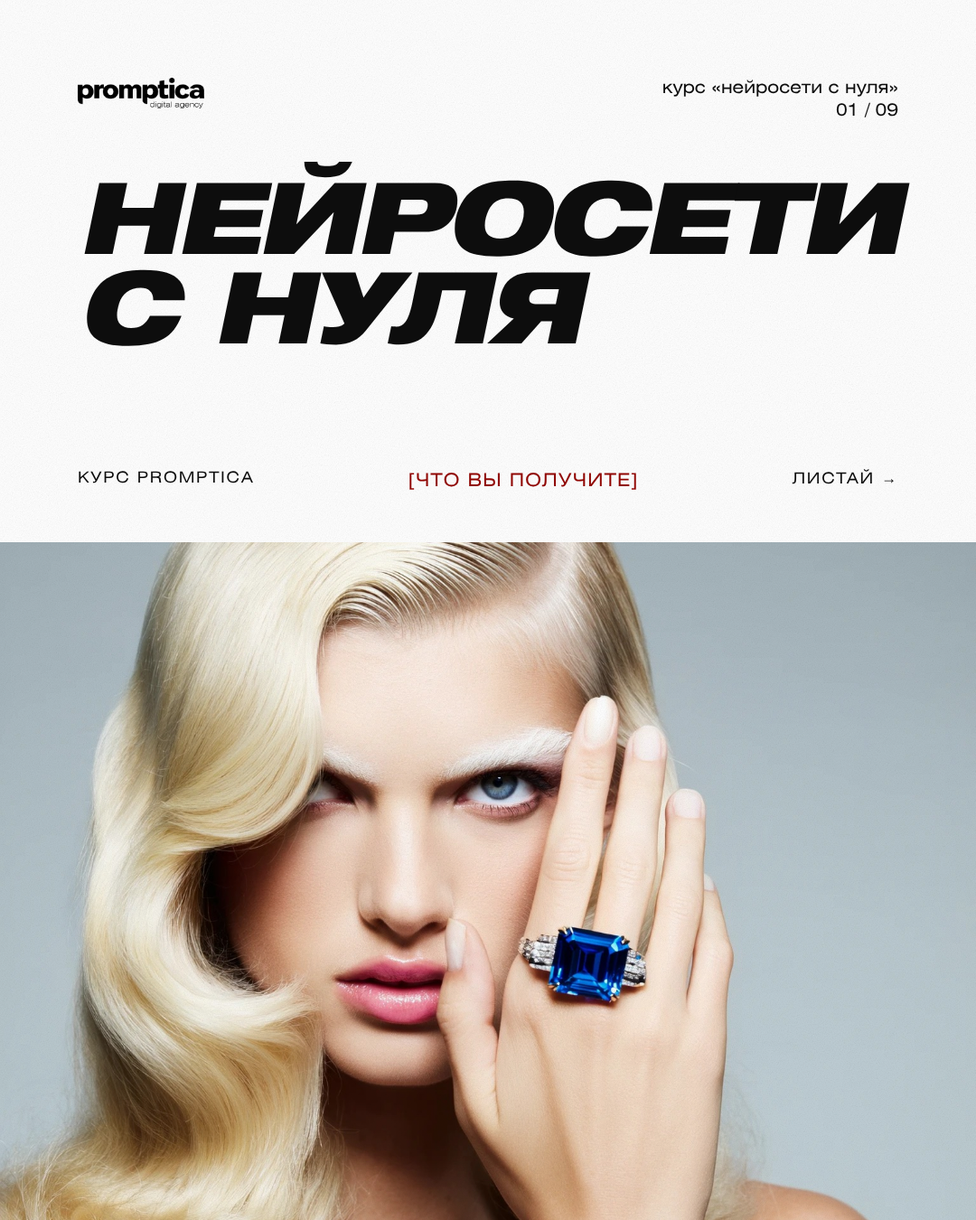
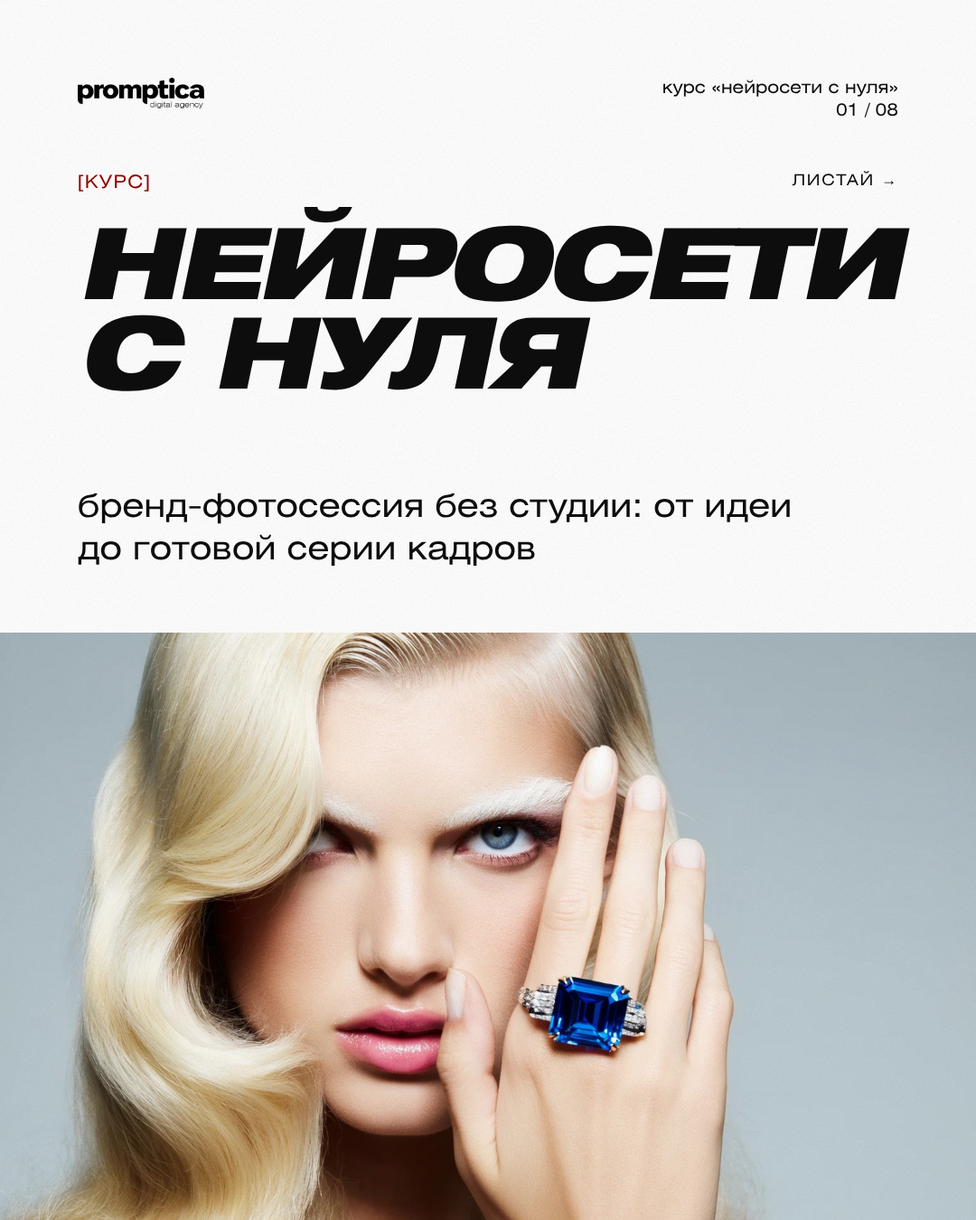
Карусель «Нейросети с нуля»: макет по присланным текстам (8 слайдов), сборка из build.py
Claude-Session: https://claude.ai/code/session_01V1NUh11xrVMcB1cs4GV2qz

diff --git a/carousels/promptica-course/05.html b/carousels/promptica-course/05.html
@@ -7,18 +7,11 @@
 </head>
 <body>
   <div class="slide ">
-    <div class="abs" style="left:86px;top:200px;width:908px"><div class="fit" data-fit="650" style="line-height:.9">2 месяца</div></div>
-    <div class="abs mrow" style="left:86px;top:340px;width:908px"><span class="br">[срок курса]</span><span>обратная связь на каждом этапе</span></div>
-    <div class="abs lbl br" style="left:86px;top:470px">[что входит]</div>
-    <div class="abs" style="left:86px;top:510px;width:908px">
-      <div class="row"><i class="cb" style="display:inline-block;margin-right:22px;vertical-align:middle"></i><span class="t">Разбор работ на курсе</span></div>
-      <div class="row"><i class="cb" style="display:inline-block;margin-right:22px;vertical-align:middle"></i><span class="t">Обратная связь от кураторов</span></div>
-      <div class="row"><i class="cb" style="display:inline-block;margin-right:22px;vertical-align:middle"></i><span class="t">Сборка портфолио</span></div>
-      <div class="row"><i class="cb" style="display:inline-block;margin-right:22px;vertical-align:middle"></i><span class="t">Финальный проект</span></div>
-      <div class="row ghost"><i class="cb" style="display:inline-block;margin-right:22px;vertical-align:middle"></i><span class="t">[ещё пункт]</span></div>
-    </div>
+    <div class="abs" style="left:86px;top:200px;width:908px"><div class="fit" data-fit="908" style="line-height:.9">5 модулей</div></div>
+    <div class="abs mrow" style="left:86px;top:340px;width:908px"><span class="br">[программа]</span><span>видеоуроки + домашние задания</span></div>
+    <div class="abs" style="left:86px;top:430px;width:908px"><div class="row" style="padding:26px 0"><span class="n">[01]</span><span class="t" style="font-size:32px"><b style="font-weight:400">Инструменты и основы</b></span></div><div class="row" style="padding:26px 0"><span class="n">[02]</span><span class="t" style="font-size:32px"><b style="font-weight:400">Идея и первые кадры</b><small style='font-size:22px;margin-top:8px'>поиск своего стиля: от референса до готовой фотосессии</small></span></div><div class="row" style="padding:26px 0"><span class="n">[03]</span><span class="t" style="font-size:32px"><b style="font-weight:400">Исправляем недочёты</b><small style='font-size:22px;margin-top:8px'>Убираем артефакты, «пластиковую» кожу и другое. Кадр выглядит как настоящая фотография.</small></span></div><div class="row" style="padding:26px 0"><span class="n">[04]</span><span class="t" style="font-size:32px"><b style="font-weight:400">Вся фотосессия целиком</b><small style='font-size:22px;margin-top:8px'>Планируем съёмку по кадрам, меняем локации и образы, отбираем лучшее и собираем серию.</small></span></div><div class="row" style="padding:26px 0"><span class="n">[05]</span><span class="t" style="font-size:32px;color:#930400"><b style="font-weight:400">Как монетизировать навык и получать заказы</b><small style='font-size:22px;margin-top:8px'>Упаковываем навык в услугу</small></span></div></div>
     <div class="hd"><img src="../../assets/logo_black.png" alt="promptica"></div>
-    <div class="mt">курс «нейросети с нуля»<br>05 / 09</div>
+    <div class="mt">курс «нейросети с нуля»<br>05 / 08</div>
     <svg class="grain"><filter id="g"><feTurbulence type="fractalNoise" baseFrequency=".9" numOctaves="3" seed="5" stitchTiles="stitch"/><feColorMatrix type="saturate" values="0"/></filter><rect width="100%" height="100%" filter="url(#g)"/></svg>
   </div>
 <script>

diff --git a/carousels/promptica-course/02.html b/carousels/promptica-course/02.html
@@ -8,14 +8,12 @@
 <body>
   <div class="slide ">
     <div class="abs" style="left:86px;top:200px;width:908px"><div class="fit" data-fit="908" style="line-height:.9">Видеоуроки</div></div>
-    <div class="abs mrow" style="left:86px;top:340px;width:908px"><span class="br">[формат]</span><span>по модулям</span><span>в своём темпе</span></div>
-    <div class="abs" style="left:86px;top:470px;width:908px">
-      <div class="row"><span class="n">[01]</span><span class="t">Видеоуроки, разбитые на модули<small>каждый модуль — отдельный блок со своей темой</small></span></div>
-      <div class="row"><span class="n">[02]</span><span class="t">Работайте в своём темпе<small>смотрите уроки тогда, когда удобно вам</small></span></div>
-      <div class="row"><span class="n">[03]</span><span class="t">Возвращайтесь к урокам<small>пересматривайте тему, если нужно закрепить</small></span></div>
-    </div>
+    <div class="abs mrow" style="left:86px;top:340px;width:908px"><span class="br">[формат]</span><span>короткие модули · своё расписание</span></div>
+    <div class="abs" style="left:86px;top:480px;width:840px;font-size:40px;line-height:1.38">Смотрите уроки в удобное время и идите в своём темпе. Каждый урок разбит на небольшие части, поэтому не нужно выделять на него целый день.</div>
+    <div class="abs lbl br" style="left:86px;top:900px">[один урок = несколько небольших частей]</div>
+    <div class="abs" style="left:86px;top:944px;width:908px;display:flex;gap:8px"><div style="flex:3;height:120px;background:#fff7e6;border:1px solid rgba(13,13,13,.15);padding:10px 12px"><span class="br" style="font-size:16px">[01]</span></div><div style="flex:2;height:120px;background:#fff7e6;border:1px solid rgba(13,13,13,.15);padding:10px 12px"><span class="br" style="font-size:16px">[02]</span></div><div style="flex:4;height:120px;background:#fff7e6;border:1px solid rgba(13,13,13,.15);padding:10px 12px"><span class="br" style="font-size:16px">[03]</span></div><div style="flex:2;height:120px;background:#fff7e6;border:1px solid rgba(13,13,13,.15);padding:10px 12px"><span class="br" style="font-size:16px">[04]</span></div><div style="flex:3;height:120px;background:#fff7e6;border:1px solid rgba(13,13,13,.15);padding:10px 12px"><span class="br" style="font-size:16px">[05]</span></div></div>
     <div class="hd"><img src="../../assets/logo_black.png" alt="promptica"></div>
-    <div class="mt">курс «нейросети с нуля»<br>02 / 09</div>
+    <div class="mt">курс «нейросети с нуля»<br>02 / 08</div>
     <svg class="grain"><filter id="g"><feTurbulence type="fractalNoise" baseFrequency=".9" numOctaves="3" seed="2" stitchTiles="stitch"/><feColorMatrix type="saturate" values="0"/></filter><rect width="100%" height="100%" filter="url(#g)"/></svg>
   </div>
 <script>

diff --git a/carousels/promptica-course/04.html b/carousels/promptica-course/04.html
@@ -7,16 +7,12 @@
 </head>
 <body>
   <div class="slide ">
-    <div class="ph" style="left:0px;top:170px;width:455px;height:1180px"><div class="hn">фото куратора</div><img src="img/04-a.jpg" alt="" style="object-position:50% 30%" onerror="this.remove()"></div>
-    <div class="abs lbl br" style="left:520px;top:260px">[куратор курса]</div>
-    <div class="abs name" style="left:520px;top:300px;font-size:100px">Алина</div>
-    <div class="abs" style="left:520px;top:470px;width:474px">
-      <div class="row" style="padding:18px 0;font-size:28px"><span class="t">креативный директор promptica</span></div>
-      <div class="row ghost" style="padding:18px 0;font-size:28px"><span class="t">[ещё достижение]</span></div>
-      <div class="row ghost" style="padding:18px 0;font-size:28px"><span class="t">[ещё достижение]</span></div>
-    </div>
+    <div class="abs" style="left:86px;top:200px;width:908px"><div class="fit" data-fit="650" style="line-height:.9">2 месяца</div></div>
+    <div class="abs mrow" style="left:86px;top:340px;width:908px"><span class="br">[срок курса]</span><span>с обратной связью</span></div>
+    <div class="abs lbl br" style="left:86px;top:470px">[что входит]</div>
+    <div class="abs" style="left:86px;top:510px;width:908px"><div class="row" style="padding:30px 0;font-size:34px"><i class="cb" style="display:inline-block;margin-right:22px;vertical-align:middle"></i><span class="t">разбор работ участников на курсе</span></div><div class="row" style="padding:30px 0;font-size:34px"><i class="cb" style="display:inline-block;margin-right:22px;vertical-align:middle"></i><span class="t">сборка портфолио</span></div><div class="row" style="padding:30px 0;font-size:34px"><i class="cb" style="display:inline-block;margin-right:22px;vertical-align:middle"></i><span class="t">проверка домашних заданий с комментариями</span></div><div class="row" style="padding:30px 0;font-size:34px"><i class="cb" style="display:inline-block;margin-right:22px;vertical-align:middle"></i><span class="t">ответы кураторов на вопросы по ходу курса</span></div><div class="row" style="padding:30px 0;font-size:34px"><i class="cb" style="display:inline-block;margin-right:22px;vertical-align:middle"></i><span class="t">закрытый чат участников</span></div></div>
     <div class="hd"><img src="../../assets/logo_black.png" alt="promptica"></div>
-    <div class="mt">курс «нейросети с нуля»<br>04 / 09</div>
+    <div class="mt">курс «нейросети с нуля»<br>04 / 08</div>
     <svg class="grain"><filter id="g"><feTurbulence type="fractalNoise" baseFrequency=".9" numOctaves="3" seed="4" stitchTiles="stitch"/><feColorMatrix type="saturate" values="0"/></filter><rect width="100%" height="100%" filter="url(#g)"/></svg>
   </div>
 <script>

diff --git a/carousels/promptica-course/03.html b/carousels/promptica-course/03.html
@@ -7,17 +7,17 @@
 </head>
 <body>
   <div class="slide ">
-    <div class="ph" style="left:0px;top:170px;width:538px;height:640px"><div class="hn">фото куратора 1</div><img src="img/03-a.jpg" alt="" style="object-position:50% 25%" onerror="this.remove()"></div>
-    <div class="ph" style="left:542px;top:170px;width:538px;height:640px"><div class="hn">фото куратора 2</div><img src="img/03-b.jpg" alt="" style="object-position:50% 25%" onerror="this.remove()"></div>
-    <div class="abs lbl br" style="left:86px;top:862px">[куратор курса]</div>
-    <div class="abs name" style="left:86px;top:902px;font-size:130px">Аня</div>
-    <div class="abs" style="left:520px;top:880px;width:474px">
-      <div class="row" style="padding:16px 0;font-size:26px"><span class="t">8 лет в дизайне</span></div>
-      <div class="row" style="padding:16px 0;font-size:26px"><span class="t">ведущий креатор</span></div>
-      <div class="row ghost" style="padding:16px 0;font-size:26px"><span class="t">[ещё достижение]</span></div>
-    </div>
+    <div class="abs name" style="left:86px;top:190px;font-size:52px;white-space:nowrap">Кто ведёт курс</div>
+    <div class="ph" style="left:0px;top:300px;width:538px;height:640px"><div class="hn">фото Алины</div><img src="img/03-a.jpg" alt="" style="object-position:50% 25%" onerror="this.remove()"></div>
+    <div class="ph" style="left:542px;top:300px;width:538px;height:640px"><div class="hn">фото Ани</div><img src="img/03-b.jpg" alt="" style="object-position:50% 25%" onerror="this.remove()"></div>
+    <div class="abs" style="left:86px;top:980px;width:420px"><div class="name" style="font-size:62px">Алина</div>
+      <div class="lbl br" style="margin-top:16px">[куратор курса]</div>
+      <div style="font-size:24px;line-height:1.4;margin-top:12px">креативный директор promptica<br>AI-креатор</div></div>
+    <div class="abs" style="left:582px;top:980px;width:420px"><div class="name" style="font-size:62px">Аня</div>
+      <div class="lbl br" style="margin-top:16px">[8 лет в дизайне]</div>
+      <div style="font-size:24px;line-height:1.4;margin-top:12px">брендинг и визуал для соцсетей<br>ведущий креатор</div></div>
     <div class="hd"><img src="../../assets/logo_black.png" alt="promptica"></div>
-    <div class="mt">курс «нейросети с нуля»<br>03 / 09</div>
+    <div class="mt">курс «нейросети с нуля»<br>03 / 08</div>
     <svg class="grain"><filter id="g"><feTurbulence type="fractalNoise" baseFrequency=".9" numOctaves="3" seed="3" stitchTiles="stitch"/><feColorMatrix type="saturate" values="0"/></filter><rect width="100%" height="100%" filter="url(#g)"/></svg>
   </div>
 <script>

diff --git a/carousels/promptica-course/06.html b/carousels/promptica-course/06.html
@@ -7,16 +7,11 @@
 </head>
 <body>
   <div class="slide ">
-    <div class="abs" style="left:86px;top:200px;width:908px"><div class="fit" data-fit="560" style="line-height:.9">Модули</div></div>
-    <div class="abs mrow" style="left:86px;top:340px;width:908px"><span class="br">[программа]</span><span>видеоуроки + домашние задания</span></div>
-    <div class="abs" style="left:86px;top:470px;width:908px">
-      <div class="row ghost"><span class="n">[01]</span><span class="t">[название модуля]<small>[чему учим]</small></span></div>
-      <div class="row ghost"><span class="n">[02]</span><span class="t">[название модуля]<small>[чему учим]</small></span></div>
-      <div class="row ghost"><span class="n">[03]</span><span class="t">[название модуля]<small>[чему учим]</small></span></div>
-      <div class="row" style="background:#fff7e6;padding-left:18px;padding-right:18px"><span class="n" style="width:auto"><span class="br">[коммерческий]</span></span><span class="t"><b style="font-weight:400">Как превратить навык в заработок</b><small>модуль о том, как продавать свои работы и находить клиентов</small></span></div>
-    </div>
+    <div class="abs" style="left:86px;top:200px;width:908px"><div class="fit" data-fit="908" style="line-height:.9">Из навыка<br>в заказы</div></div>
+    <div class="abs mrow" style="left:86px;top:500px;width:908px"><span class="br">[коммерческий модуль]</span><span>модуль 05</span></div>
+    <div class="abs" style="left:86px;top:600px;width:908px"><div class="row" style="padding:26px 0;font-size:34px"><span class="n">[01]</span><span class="t">как упаковать фотосессию в услугу</span></div><div class="row" style="padding:26px 0;font-size:34px"><span class="n">[02]</span><span class="t">пакеты и цены</span></div><div class="row" style="padding:26px 0;font-size:34px"><span class="n">[03]</span><span class="t">портфолио, которое продаёт</span></div></div>
     <div class="hd"><img src="../../assets/logo_black.png" alt="promptica"></div>
-    <div class="mt">курс «нейросети с нуля»<br>06 / 09</div>
+    <div class="mt">курс «нейросети с нуля»<br>06 / 08</div>
     <svg class="grain"><filter id="g"><feTurbulence type="fractalNoise" baseFrequency=".9" numOctaves="3" seed="6" stitchTiles="stitch"/><feColorMatrix type="saturate" values="0"/></filter><rect width="100%" height="100%" filter="url(#g)"/></svg>
   </div>
 <script>

diff --git a/carousels/promptica-course/08.html b/carousels/promptica-course/08.html
@@ -6,17 +6,13 @@
   <link rel="stylesheet" href="style.css">
 </head>
 <body>
-  <div class="slide ">
-    <div class="abs" style="left:86px;top:200px;width:908px"><div class="fit" data-fit="640" style="line-height:1.02">Домашние<br>задания</div></div>
-    <div class="abs mrow" style="left:86px;top:470px;width:908px"><span class="br">[после уроков]</span><span>закрепляете навык на практике</span></div>
-    <div class="abs" style="left:86px;top:600px;width:908px">
-      <div class="row"><span class="n" style="width:120px">[урок]</span><span class="t">Видеоурок по теме модуля</span><span class="br">→</span></div>
-      <div class="row"><span class="n" style="width:120px">[дз]</span><span class="t">Домашнее задание после урока</span><span class="br">→</span></div>
-      <div class="row"><span class="n" style="width:120px">[разбор]</span><span class="t">Разбор работы на курсе</span><span class="br">✓</span></div>
-    </div>
-    <div class="abs" style="left:86px;top:1010px;width:760px;font-size:30px;line-height:1.4">После каждого урока вы делаете домашнее задание, и работа уходит на разбор.</div>
-    <div class="hd"><img src="../../assets/logo_black.png" alt="promptica"></div>
-    <div class="mt">курс «нейросети с нуля»<br>08 / 09</div>
+  <div class="slide red">
+    <div class="abs" style="left:86px;top:240px;width:908px"><div class="fit" data-fit="908" style="line-height:.9;color:#fff7e6">Запись<br>на курс</div></div>
+    <div class="abs mrow" style="left:86px;top:560px;width:908px;color:#fff7e6"><span class="br">курс [нейросети с нуля]</span><span>2 месяца</span></div>
+    <div class="abs hair" style="left:86px;top:640px;width:908px;color:#fff7e6;opacity:.4"></div>
+    <div class="abs" style="left:86px;top:690px;width:780px;font-size:32px;line-height:1.4;color:#fff7e6">[как записаться: слово в комментариях / ссылка в шапке профиля / анкета]</div>
+    <div class="hd"><img src="../../assets/logo_cream.png" alt="promptica"></div>
+    <div class="mt" style="color:#fff7e6">курс «нейросети с нуля»<br>08 / 08</div>
     <svg class="grain"><filter id="g"><feTurbulence type="fractalNoise" baseFrequency=".9" numOctaves="3" seed="8" stitchTiles="stitch"/><feColorMatrix type="saturate" values="0"/></filter><rect width="100%" height="100%" filter="url(#g)"/></svg>
   </div>
 <script>

diff --git a/carousels/promptica-course/07.html b/carousels/promptica-course/07.html
@@ -7,15 +7,18 @@
 </head>
 <body>
   <div class="slide ">
-    <div class="abs" style="left:86px;top:200px;width:908px"><div class="fit" data-fit="420" style="line-height:.9">Гайды</div></div>
-    <div class="abs mrow" style="left:86px;top:340px;width:908px"><span class="br">[навсегда]</span><span>остаются у вас после курса</span></div>
-    <div class="abs" style="left:86px;top:470px;width:760px;font-size:34px;line-height:1.38">Вы получите гайды, которые заберёте себе навсегда и сможете использовать в работе после окончания курса.</div>
-    <div class="abs" style="left:86px;top:800px;width:908px;background:#fff7e6;padding:44px 44px 48px">
+    <div class="abs" style="left:86px;top:200px;width:908px"><div class="fit" data-fit="908" style="line-height:.9">Гайды — навсегда</div></div>
+    <div class="abs mrow" style="left:86px;top:300px;width:908px"><span class="br">[что останется с вами]</span><span>после курса</span></div>
+    <div class="abs" style="left:86px;top:420px;width:908px">
+      <div class="row" style="padding:26px 0;font-size:32px"><span class="t">Забираете гайды и пользуетесь ими после курса.</span></div>
+      <div class="row" style="padding:26px 0;font-size:32px"><span class="t">После каждого урока: домашнее задание.</span></div>
+    </div>
+    <div class="abs" style="left:86px;top:800px;width:908px;background:#fff7e6;padding:54px 54px 58px">
       <div class="lbl br">[бонус]</div>
-      <div class="name" style="font-size:46px;line-height:1.05;margin-top:18px">Урок по дизайнерскому оформлению постов и рилс</div>
+      <div class="name" style="font-size:52px;line-height:1.08;margin-top:20px">Урок по оформлению дизайна постов и рилс</div>
     </div>
     <div class="hd"><img src="../../assets/logo_black.png" alt="promptica"></div>
-    <div class="mt">курс «нейросети с нуля»<br>07 / 09</div>
+    <div class="mt">курс «нейросети с нуля»<br>07 / 08</div>
     <svg class="grain"><filter id="g"><feTurbulence type="fractalNoise" baseFrequency=".9" numOctaves="3" seed="7" stitchTiles="stitch"/><feColorMatrix type="saturate" values="0"/></filter><rect width="100%" height="100%" filter="url(#g)"/></svg>
   </div>
 <script>

diff --git a/carousels/promptica-course/01.html b/carousels/promptica-course/01.html
@@ -7,11 +7,12 @@
 </head>
 <body>
   <div class="slide ">
-    <div class="abs" style="left:86px;top:190px;width:908px"><div class="fit" data-fit="908" style="line-height:.9">Нейросети<br>с нуля</div></div>
-    <div class="abs mrow" style="left:86px;top:520px;width:908px"><span>курс promptica</span><span class="br">[что вы получите]</span><span>листай →</span></div>
-    <div class="ph" style="left:0px;top:600px;width:1080px;height:750px"><div class="hn">лучшая работа ученика</div><img src="img/01-a.jpg" alt="" style="object-position:50% 45%" onerror="this.remove()"></div>
+    <div class="abs mrow" style="left:86px;top:190px;width:908px"><span class="br">[курс]</span><span>листай →</span></div>
+    <div class="abs" style="left:86px;top:240px;width:908px"><div class="fit" data-fit="908" style="line-height:.9">Нейросети<br>с нуля</div></div>
+    <div class="abs" style="left:86px;top:540px;width:820px;font-size:36px;line-height:1.3">бренд-фотосессия без студии: от идеи до готовой серии кадров</div>
+    <div class="ph" style="left:0px;top:700px;width:1080px;height:650px"><div class="hn">лучшая работа ученика</div><img src="img/01-a.jpg" alt="" style="object-position:50% 45%" onerror="this.remove()"></div>
     <div class="hd"><img src="../../assets/logo_black.png" alt="promptica"></div>
-    <div class="mt">курс «нейросети с нуля»<br>01 / 09</div>
+    <div class="mt">курс «нейросети с нуля»<br>01 / 08</div>
     <svg class="grain"><filter id="g"><feTurbulence type="fractalNoise" baseFrequency=".9" numOctaves="3" seed="1" stitchTiles="stitch"/><feColorMatrix type="saturate" values="0"/></filter><rect width="100%" height="100%" filter="url(#g)"/></svg>
   </div>
 <script>

diff --git a/carousels/promptica-course/build.py b/carousels/promptica-course/build.py
@@ -1,0 +1,101 @@
+"""Карусель «Нейросети с нуля — что вы получите» (promptica). Тексты — в этом файле; python3 build.py && npm run export -- promptica-course"""
+import os
+here = os.path.dirname(os.path.abspath(__file__)); os.chdir(here)
+TOTAL = 8
+FIT = '''<script>
+Promise.all([document.fonts.load("100px 'HN Black Ext'"), document.fonts.load("20px 'Helios Ext'"), document.fonts.ready]).then(() => {
+  document.querySelectorAll('[data-fit]').forEach(el => { el.style.fontSize = '100px'; el.style.fontSize = (100 * parseFloat(el.dataset.fit) / el.getBoundingClientRect().width) + 'px'; });
+});
+</script>'''
+def grain(n): return f'<svg class="grain"><filter id="g"><feTurbulence type="fractalNoise" baseFrequency=".9" numOctaves="3" seed="{n}" stitchTiles="stitch"/><feColorMatrix type="saturate" values="0"/></filter><rect width="100%" height="100%" filter="url(#g)"/></svg>'
+def page(n, body, cls='', logo='logo_black.png', col=''):
+    open(f'{n:02d}.html', 'w', encoding='utf-8').write(f'''<!DOCTYPE html>
+<html lang="ru">
+<head>
+  <meta charset="UTF-8">
+  <title>Нейросети с нуля — {n:02d}</title>
+  <link rel="stylesheet" href="style.css">
+</head>
+<body>
+  <div class="slide {cls}">
+{body}
+    <div class="hd"><img src="../../assets/{logo}" alt="promptica"></div>
+    <div class="mt"{col}>курс «нейросети с нуля»<br>{n:02d} / {TOTAL:02d}</div>
+    {grain(n)}
+  </div>
+{FIT}
+</body>
+</html>
+''')
+def ph(x, y, w, h, hint, fn, pos='50% 35%'):
+    return f'    <div class="ph" style="left:{x}px;top:{y}px;width:{w}px;height:{h}px"><div class="hn">{hint}</div><img src="img/{fn}" alt="" style="object-position:{pos}" onerror="this.remove()"></div>'
+def fit(text, w=908, top=200, color='', lh='.9'):
+    c = f';color:{color}' if color else ''
+    return f'    <div class="abs" style="left:86px;top:{top}px;width:908px"><div class="fit" data-fit="{w}" style="line-height:{lh}{c}">{text}</div></div>'
+def mrow(left, right, top, color=''):
+    c = f';color:{color}' if color else ''
+    return f'    <div class="abs mrow" style="left:86px;top:{top}px;width:908px{c}"><span class="br">{left}</span><span>{right}</span></div>'
+cb = '<i class="cb" style="display:inline-block;margin-right:22px;vertical-align:middle"></i>'
+
+# 1 хук
+page(1, f'''{mrow('[курс]','листай →',190)}
+{fit('Нейросети<br>с нуля',908,240)}
+    <div class="abs" style="left:86px;top:540px;width:820px;font-size:36px;line-height:1.3">бренд-фотосессия без студии: от идеи до готовой серии кадров</div>
+{ph(0,700,1080,650,'лучшая работа ученика','01-a.jpg','50% 45%')}''')
+# 2 формат
+parts = ''.join(f'<div style="flex:{f};height:120px;background:#fff7e6;border:1px solid rgba(13,13,13,.15);padding:10px 12px"><span class="br" style="font-size:16px">[{i:02d}]</span></div>' for i, f in enumerate([3, 2, 4, 2, 3], start=1))
+page(2, f'''{fit('Видеоуроки',908,200)}
+{mrow('[формат]','короткие модули · своё расписание',340)}
+    <div class="abs" style="left:86px;top:480px;width:840px;font-size:40px;line-height:1.38">Смотрите уроки в удобное время и идите в своём темпе. Каждый урок разбит на небольшие части, поэтому не нужно выделять на него целый день.</div>
+    <div class="abs lbl br" style="left:86px;top:900px">[один урок = несколько небольших частей]</div>
+    <div class="abs" style="left:86px;top:944px;width:908px;display:flex;gap:8px">{parts}</div>''')
+# 3 кураторы
+page(3, f'''    <div class="abs name" style="left:86px;top:190px;font-size:52px;white-space:nowrap">Кто ведёт курс</div>
+{ph(0,300,538,640,'фото Алины','03-a.jpg','50% 25%')}
+{ph(542,300,538,640,'фото Ани','03-b.jpg','50% 25%')}
+    <div class="abs" style="left:86px;top:980px;width:420px"><div class="name" style="font-size:62px">Алина</div>
+      <div class="lbl br" style="margin-top:16px">[куратор курса]</div>
+      <div style="font-size:24px;line-height:1.4;margin-top:12px">креативный директор promptica<br>AI-креатор</div></div>
+    <div class="abs" style="left:582px;top:980px;width:420px"><div class="name" style="font-size:62px">Аня</div>
+      <div class="lbl br" style="margin-top:16px">[8 лет в дизайне]</div>
+      <div style="font-size:24px;line-height:1.4;margin-top:12px">брендинг и визуал для соцсетей<br>ведущий креатор</div></div>''')
+# 4 срок
+items = ['разбор работ участников на курсе', 'сборка портфолио', 'проверка домашних заданий с комментариями', 'ответы кураторов на вопросы по ходу курса', 'закрытый чат участников']
+rows = ''.join(f'<div class="row" style="padding:30px 0;font-size:34px">{cb}<span class="t">{t}</span></div>' for t in items)
+page(4, f'''{fit('2 месяца',650,200)}
+{mrow('[срок курса]','с обратной связью',340)}
+    <div class="abs lbl br" style="left:86px;top:470px">[что входит]</div>
+    <div class="abs" style="left:86px;top:510px;width:908px">{rows}</div>''')
+# 5 модули
+mods = [('01', 'Инструменты и основы', '', False),
+        ('02', 'Идея и первые кадры', 'поиск своего стиля: от референса до готовой фотосессии', False),
+        ('03', 'Исправляем недочёты', 'Убираем артефакты, «пластиковую» кожу и другое. Кадр выглядит как настоящая фотография.', False),
+        ('04', 'Вся фотосессия целиком', 'Планируем съёмку по кадрам, меняем локации и образы, отбираем лучшее и собираем серию.', False),
+        ('05', 'Как монетизировать навык и получать заказы', 'Упаковываем навык в услугу', True)]
+mr = ''.join(f'<div class="row" style="padding:26px 0"><span class="n">[{n}]</span><span class="t" style="font-size:32px{";color:#930400" if red else ""}"><b style="font-weight:400">{t}</b>{f"<small style='font-size:22px;margin-top:8px'>{d}</small>" if d else ""}</span></div>' for n, t, d, red in mods)
+page(5, f'''{fit('5 модулей',908,200)}
+{mrow('[программа]','видеоуроки + домашние задания',340)}
+    <div class="abs" style="left:86px;top:430px;width:908px">{mr}</div>''')
+# 6 коммерческий модуль
+pts = ['как упаковать фотосессию в услугу', 'пакеты и цены', 'портфолио, которое продаёт']
+pr = ''.join(f'<div class="row" style="padding:26px 0;font-size:34px"><span class="n">[{i:02d}]</span><span class="t">{t}</span></div>' for i, t in enumerate(pts, start=1))
+page(6, f'''{fit('Из навыка<br>в заказы',908,200)}
+{mrow('[коммерческий модуль]','модуль 05',500)}
+    <div class="abs" style="left:86px;top:600px;width:908px">{pr}</div>''')
+# 7 что останется
+page(7, f'''{fit('Гайды — навсегда',908,200)}
+{mrow('[что останется с вами]','после курса',300)}
+    <div class="abs" style="left:86px;top:420px;width:908px">
+      <div class="row" style="padding:26px 0;font-size:32px"><span class="t">Забираете гайды и пользуетесь ими после курса.</span></div>
+      <div class="row" style="padding:26px 0;font-size:32px"><span class="t">После каждого урока: домашнее задание.</span></div>
+    </div>
+    <div class="abs" style="left:86px;top:800px;width:908px;background:#fff7e6;padding:54px 54px 58px">
+      <div class="lbl br">[бонус]</div>
+      <div class="name" style="font-size:52px;line-height:1.08;margin-top:20px">Урок по оформлению дизайна постов и рилс</div>
+    </div>''')
+# 8 CTA
+page(8, f'''{fit('Запись<br>на курс',908,240,'#fff7e6')}
+{mrow('курс [нейросети с нуля]','2 месяца',560,'#fff7e6')}
+    <div class="abs hair" style="left:86px;top:640px;width:908px;color:#fff7e6;opacity:.4"></div>
+    <div class="abs" style="left:86px;top:690px;width:780px;font-size:32px;line-height:1.4;color:#fff7e6">[как записаться: слово в комментариях / ссылка в шапке профиля / анкета]</div>''', 'red', 'logo_cream.png', ' style="color:#fff7e6"')
+print('слайдов:', TOTAL)

diff --git a/carousels/promptica-course/README.md b/carousels/promptica-course/README.md
@@ -1,4 +1,4 @@
-# Карусель «Нейросети с нуля — что вы получите» (promptica), 9 слайдов, 1080×1350
-Слайды: 01 хук · 02 формат · 03 куратор Аня · 04 куратор Алина · 05 срок и что входит · 06 модули (+ коммерческий) · 07 гайды и бонус · 08 домашние задания · 09 запись на курс.
-Заглушки в `[скобках]`: фото кураторов (`img/03-a.jpg`, `03-b.jpg`, `04-a.jpg`), «[ещё достижение]», названия модулей, «[ещё пункт]», способ записи.
-Экспорт: `npm run export -- promptica-course`.
+# Карусель «Нейросети с нуля — что вы получите» (promptica), 8 слайдов, 1080×1350
+Слайды: 01 хук · 02 формат · 03 кураторы · 04 срок и обратная связь · 05 модули · 06 коммерческий модуль · 07 гайды и бонус · 08 запись.
+Тексты — в `build.py`: `python3 build.py && npm run export -- promptica-course`.
+Заглушки: фото кураторов (`img/03-a.jpg` Алина, `img/03-b.jpg` Аня), фото на хуке (`img/01-a.jpg`), способ записи на слайде 8.
